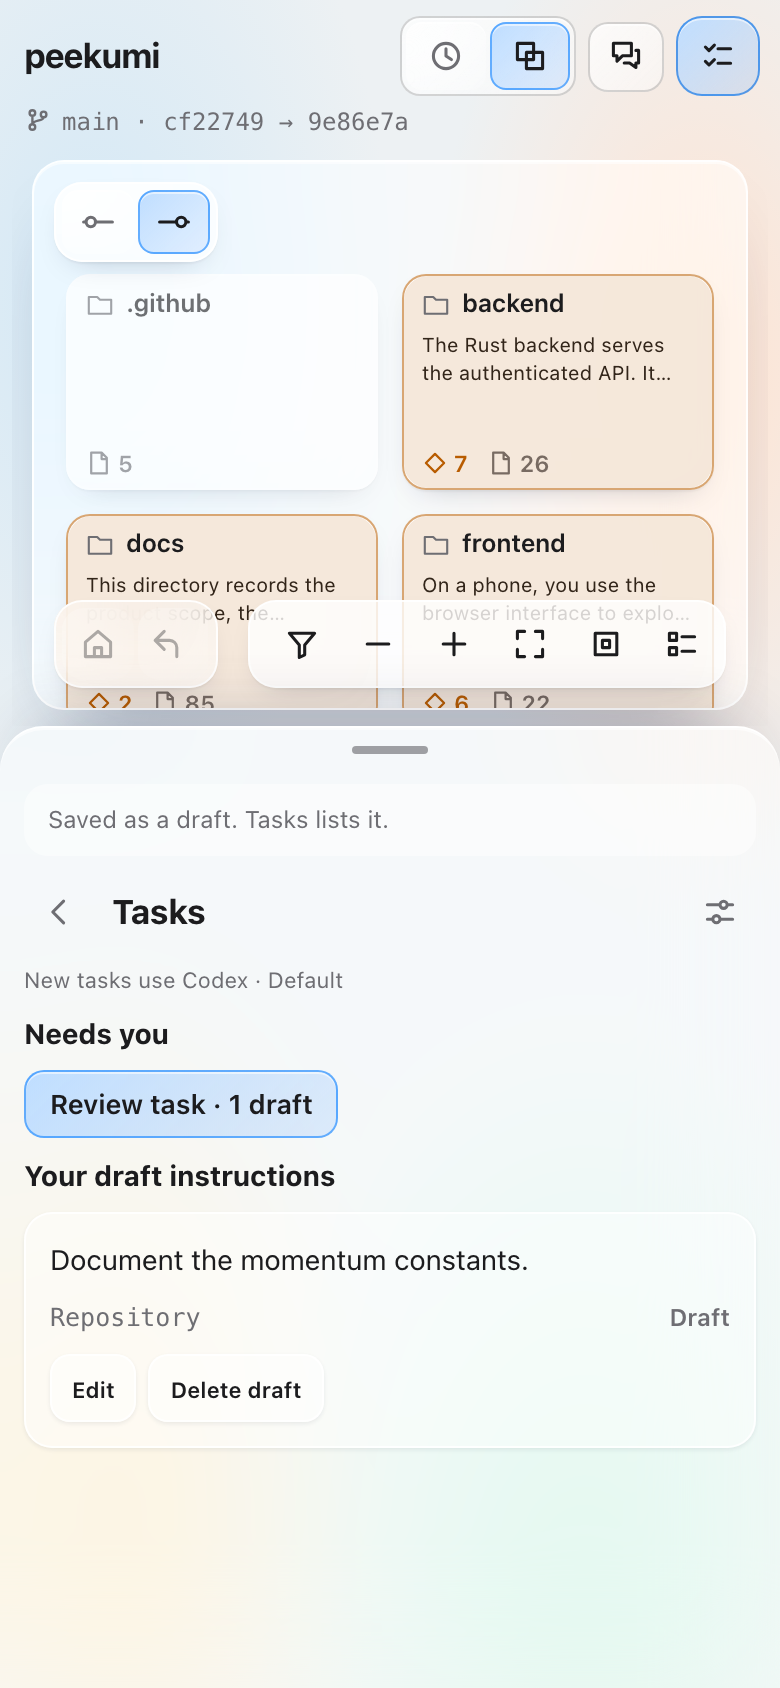
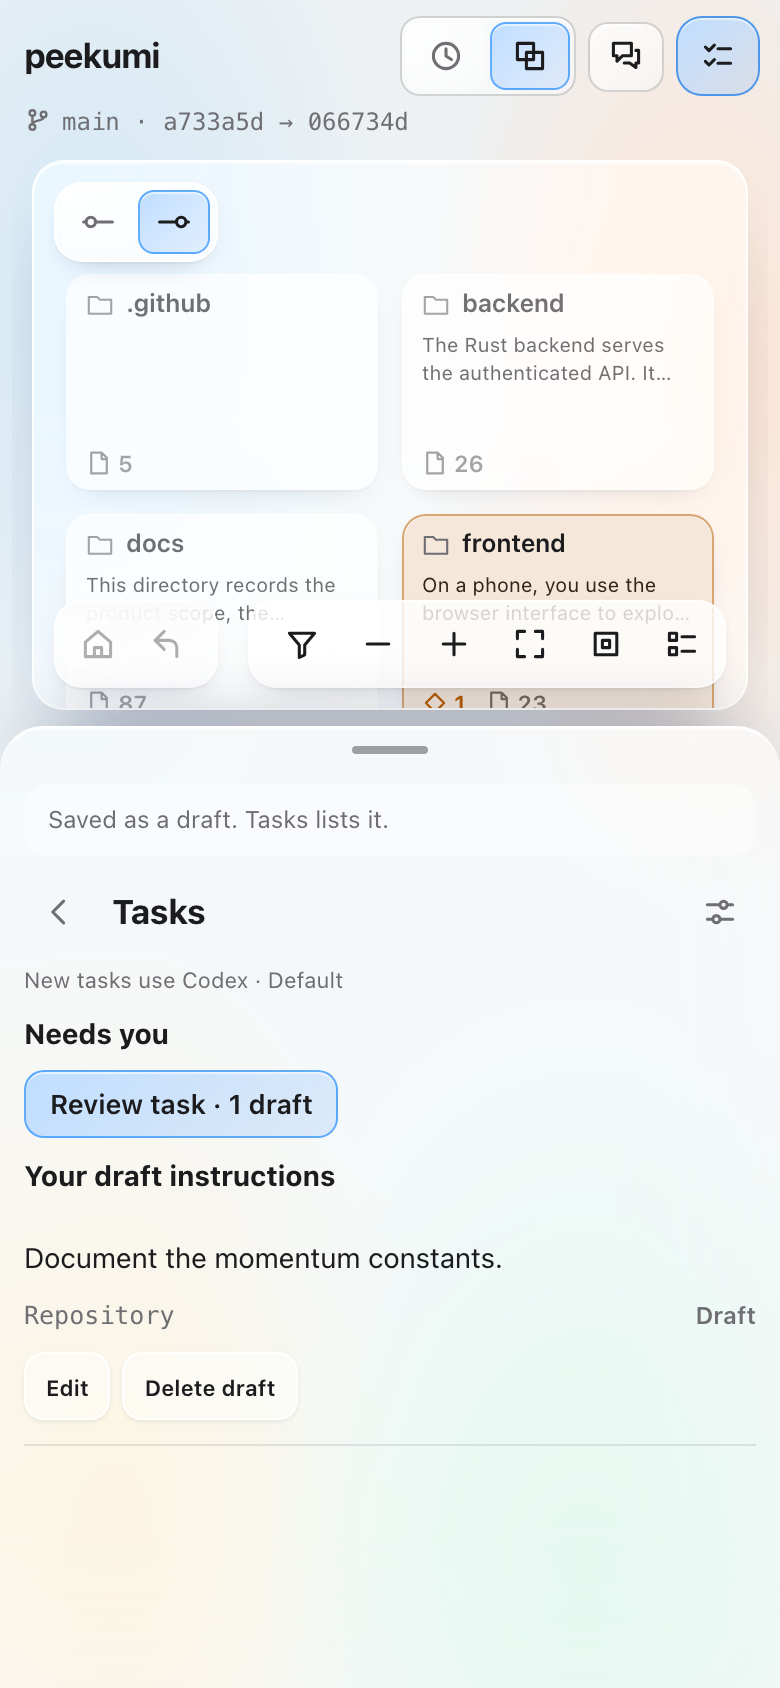
Plain task views: no tinted cards, report headings or count titles
- The merge step is a quiet section with Peek and its heading, not a tinted card; only a
  state where something is in the way reads in orange.
- An agent's report is quiet text under its instruction, without an "Agent result" heading.
- A task's title is its first instruction in words ("Write the result file + 1 more"),
  not a count of instructions and locations.
- Explore changes is a plain button, so the task's next step (Approve, Merge) is the only
  primary one.
- Instructions and tasks in lists are plain rows under hairlines: the panel's shared glass
  rules no longer frost them as cards, and the requested-changes block loses its left border.

Claude-Session: https://claude.ai/code/session_01DSR3ucQWFFbZQz1wgvtoZ8

diff --git a/frontend/style.css b/frontend/style.css
@@ -2236,12 +2236,14 @@ button {
   min-height: 44px;
   cursor: pointer;
 }
+/* An instruction: a plain row under a hairline, not a card. */
 .workflow-card {
-  background: var(--surface);
-  border: 1px solid var(--line);
-  border-radius: 14px;
-  padding: 12px;
-  margin: 10px 0;
+  background: none;
+  border: 0;
+  border-bottom: 1px solid var(--line);
+  border-radius: 0;
+  padding: 12px 0;
+  margin: 0;
   overflow-wrap: anywhere;
 }
 .workflow-card h3,
@@ -3552,8 +3554,7 @@ body {
 .panel select,
 .panel .seg,
 .panel .tabs,
-.panel details,
-.panel .workflow-card {
+.panel details {
   background: var(--el-glass);
   border-color: var(--el-line);
   box-shadow: var(--el-shadow);
@@ -3700,8 +3701,6 @@ body {
     .runrow,
     .notice,
     .search-wrap,
-    .workflow-card,
-    .task-link,
     .code-metadata,
     .contract-details,
     .directory-details,
@@ -4737,13 +4736,15 @@ details.p-section[open] > summary::before {
 }
 
 /* After approval: merge on the owner's tap, or what is in the way and the way past it. */
+/* The step after approval: a quiet section after the instructions' hairline, not a tinted
+   card. */
 .apply-step {
-  margin: 4px 0 8px;
-  padding: 12px 14px;
-  border-radius: 14px;
-  background: var(--el-glass);
-  border: 1px solid var(--el-line);
-  box-shadow: var(--el-shadow);
+  margin: 12px 0 8px;
+  padding: 0;
+  border: 0;
+  border-radius: 0;
+  background: none;
+  box-shadow: none;
 }
 .apply-step .workflow-group {
   margin: 0 0 4px;
@@ -4755,19 +4756,10 @@ details.p-section[open] > summary::before {
   display: grid;
   gap: 8px;
 }
-.merge-step[data-state="ready"],
-.merge-step[data-state="behind"] {
-  border-color: color-mix(in srgb, var(--accent) 40%, transparent);
-  background: color-mix(in srgb, var(--accent) 7%, var(--el-glass));
-}
-.merge-step[data-state="merged"] {
-  border-color: color-mix(in srgb, var(--accent) 40%, transparent);
-  background: color-mix(in srgb, var(--accent) 7%, var(--el-glass));
-}
-.merge-step[data-state="blocked"],
-.merge-step[data-state="elsewhere"] {
-  border-color: color-mix(in srgb, var(--mod) 45%, transparent);
-  background: color-mix(in srgb, var(--mod) 8%, var(--el-glass));
+/* The state is in the heading's words and Peek; something in the way reads in orange. */
+.merge-step[data-state="blocked"] > .workflow-group,
+.merge-step[data-state="elsewhere"] > .workflow-group {
+  color: var(--mod);
 }
 .merge-step > .btn.primary {
   width: 100%;
@@ -5576,8 +5568,8 @@ details.p-section[open] > summary::before {
   display: none;
 }
 /* Request changes: the owner's feedback leads the next round, and its box sits under the actions. */
-.workflow-card.requested {
-  border-left: 2px solid var(--accent);
+.workflow-card.requested .report-label {
+  color: var(--accent);
 }
 .reply-box {
   margin: 10px 0 4px;
@@ -7277,5 +7269,30 @@ body.menu-open .sheet[data-front="true"] .node:not(.menu-target) {
 /* Under Details: the instructions on this selection, as one quiet link. */
 .instructions-here {
   margin: 4px 0 8px;
+}
+
+/* The agent's report on an instruction: quiet text under it, with no heading. */
+.report-text {
+  color: var(--muted);
+}
+.report-text p {
+  margin: 6px 0 0;
+}
+
+/* A task in a list: a plain row under a hairline, as a conversation is; not a card.
+   (!important: the panel's glass rule for buttons carries an ID in its :not() list.) */
+.panel .task-link {
+  margin: 0;
+  padding: 12px 2px;
+  border: 0 !important;
+  border-bottom: 1px solid var(--line) !important;
+  border-radius: 0 !important;
+  background: none !important;
+  box-shadow: none !important;
+  -webkit-backdrop-filter: none !important;
+  backdrop-filter: none !important;
+}
+.panel .workflow-card {
+  box-shadow: none;
 }
 

diff --git a/frontend/workflow.js b/frontend/workflow.js
@@ -721,10 +721,8 @@ export function createWorkflow({
         card.append(richText(c.text, "workflow-text"), foot);
         const report = c.report;
         if (report) {
-          card.append(
-            el("strong", "report-label", "Agent result"),
-            richText(report.note || report.reason, "workflow-text"),
-          );
+          // What the agent says about it, quietly under the instruction; no heading.
+          card.append(richText(report.note || report.reason, "workflow-text report-text"));
           if (report.checks) {
             const d = el("details", "workflow-evidence");
             d.append(
@@ -1106,15 +1104,16 @@ export function createWorkflow({
   }
   /** Every instruction in a task round: its work and any finished ones carried along. */
   const instructionsOf = (r) => [...(r.comments || []), ...(r.done || [])];
+  /** A task in words: its first instruction (one line, shortened), how many more, and the
+   * round after the first. A session is its title. */
   function taskTitle(r) {
-    if (r.kind === "session") return `Session · ${r.title || "Untitled"}`;
-    const paths = [
-      ...new Set(instructionsOf(r).map((c) => c.anchor.path || "Repository")),
-    ];
-    const scope = paths.length === 1 ? paths[0] : `${paths.length} locations`;
+    if (r.kind === "session") return r.title || "Session";
+    const list = instructionsOf(r);
+    const first = (list[0]?.text || "").split("\n")[0].replace(/[`*#>]/g, "").trim() || "Task";
+    const words = first.length > 64 ? first.slice(0, 61).trimEnd() + "…" : first;
+    const more = list.length > 1 ? ` + ${list.length - 1} more` : "";
     const round = r.round > 1 ? ` · round ${r.round}` : "";
-    const count = instructionsOf(r).length;
-    return `${count} instruction${count === 1 ? "" : "s"} · ${scope}${round}`;
+    return `${words}${more}${round}`;
   }
   /** True once a finished task has no instruction left to review and at least one approved. */
   function reviewed(r) {
@@ -1317,7 +1316,6 @@ export function createWorkflow({
           "Explore changes",
           // An update round shows the task on top of the new target, not the target's own changes.
           () => explore(r.mergeTarget || r.base, r.branch, r.id),
-          !(collected(r.id).length && !r.revisedBy),
         ),
       );
     // A later round carries this one's work forward; decisions happen there.

diff --git a/frontend/README.md b/frontend/README.md
@@ -56,7 +56,7 @@ The chrome is minimal, so the map keeps most of the phone screen. The header con
 
 Directory cards show a summary of the added, modified and removed counts and the file total, not truncated chips with child names. The accessible name of the card includes these counts. Inspection views, Ask/Instruction, send, save and cancel are icon buttons. The active inspection view also shows its label. A popover closes when you push Escape, push its close button or press the pointer at a different location.
 
-At peek height, the sheet shows complete text. A long summary or input/output list scrolls by whole lines, and its last line fades while more text is available. Cards, lists, notices and task cards in the sheet use the same frost, but code, diffs and text inputs are more opaque. Popovers and select menus use a denser glass, so the map does not show through them. The size of the map key agrees with the space above the floating toolbar.
+At peek height, the sheet shows complete text. A long summary or input/output list scrolls by whole lines, and its last line fades while more text is available. Lists and notices in the sheet use the same frost, but code, diffs and text inputs are more opaque. Tasks, instructions, conversations and the merge step are plain rows under hairlines, with no card, tint or shadow; a task's title is its first instruction, and only its next step is a primary button. Popovers and select menus use a denser glass, so the map does not show through them. The size of the map key agrees with the space above the floating toolbar.
 
 Three shared primitives make the review sheet: frosted section cards (`section()` in `app.js`), list cards and a code box. Each row of a list card shows a status icon, a title, a muted detail and a chevron. Inspection tabs are outside the content that scrolls. When you choose a view, a sheet at peek height goes up, but a sheet at half height or full height never goes down. In Source, the header stays in its position, and the code box fills the height that is left in the sheet. The code box scrolls inside itself.
 
